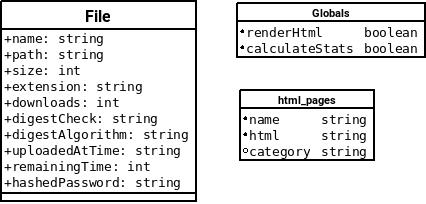
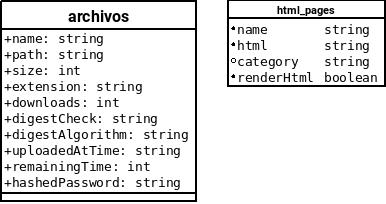
+ html_pages table

Changed region(s): [[0.0, 0.0, 1.0, 1.0], [0.1554, 0.0294, 0.342, 0.1176]]

diff --git a/botadero/database/models.py b/botadero/database/models.py
@@ -34,7 +34,7 @@ class Archivo(db.Model, CRUDMixin):
 
     def __init__(self, **kwargs):
         super(Archivo, self).__init__(**kwargs)
-        ''' Inicializador de columna Parametros, puede recibir los argumentos:
+        ''' Inicializador de la tabla archivos, puede recibir los argumentos:
         - name: string
         - path: string
         - size: int
@@ -85,3 +85,43 @@ class Archivo(db.Model, CRUDMixin):
         
     def __repr__(self):
         return 'File %r: %r [%r] (%r B), downloads: %d - uploaded: %r remaining time: %d' % (self.name, self.path, self.digestCheck, self.size, self.downloads, self.uploadedAtTime, self.remainingTime)
+
+class HtmlPage(db.Model, CRUDMixin):
+    __tablename__ = 'html_pages'
+    id = db.Column(db.Integer, primary_key=True)
+    name = db.Column(db.String(1000), nullable=False)
+    html = db.Column(db.String(100000), nullable=False)
+    category = db.Column(db.String(1000), nullable=False, default='')
+    renderHtml = db.Column(db.Boolean, default=False, nullable=False)
+
+    def __init__(self, **kwargs):
+        super(HtmlPage, self).__init__(**kwargs)
+        ''' Inicializador de la tabla html_pages, puede recibir argumentos:
+        - name: string
+        - html: string
+        - category: string
+        - renderHtml: boolean
+        '''
+        self.name = kwargs.get('name','undefined')
+        self.html = kwargs.get('html', '<html>No content yet</html>')
+        self.category = kwargs.get('category', 'Misc')
+
+    def save(self, **kwargs):
+        self.name = kwargs.get('name', self.name)
+        self.html = kwargs.get('html', self.html)
+        self.category = kwargs.get('category', self.category)
+        self.renderHtml = kwargs.get('renderHtml', self.renderHtml)
+
+        db.session.add(self)
+        db.session.commit()
+        return self
+
+    def delete(self):
+        db.session.delete(self)
+        return db.session.commit()
+
+    def __repr__(self):
+        return 'html_page %r: \ncategory:\nhtml:\n%r\nrenderHtml:%r' % (self.name, self.category, self.html, self.renderHtml)
+
+    
+        

diff --git a/botadero/controller.py b/botadero/controller.py
@@ -8,7 +8,7 @@ import os
 
 from .shared import globalParams, gr
 from . import utils as u
-from .database.models import Archivo
+from .database.models import Archivo, HtmlPage
 
 def descargaPermitida(cat, nombreArchivo):
     if '..' in nombreArchivo or nombreArchivo.startswith(os.path.sep):
@@ -27,7 +27,7 @@ def descargarArchivo(cat, nombreArchivo):
 
 # definir una funcion para comprobar la lista de archivos y su tiempo de 
 # borrado
-def comprobarTiempoBorradoListaArchivos(categoria, hdd=False):
+def comprobarTiempoBorradoListaArchivos(categoria, hdxd=False):
     ''' Verifica si es necesario borrar archivos en los archivos dados en
     la carpeta (categoria) guradada en el almacen
     :param categoria: La carpeta (categoria) dentro el almacen donde se hace

diff --git a/tests/test_database.py b/tests/test_database.py
@@ -40,3 +40,11 @@ def test_modificarArchivo(db):
     name = uuid.uuid4().hex
     b.save(name=name)
     assert Archivo.query.filter_by(name=name).first() is not None
+
+# tabla html_pages
+def test_crearHtmlPage(db):
+    from botadero.database.models import HtmlPage
+    name = uuid.uuid4().hex
+    b = HtmlPage.create(name=name, category='Misc')
+    assert HtmlPage.query.filter_by(name=name).first() is not None
+

diff --git a/botadero/database/__init__.py b/botadero/database/__init__.py
@@ -29,7 +29,7 @@ def setup_db(app, db=None, destroy=True, db_path='sqlite:///db.sqlite3', testing
     g.db = db
     # importando modelos definidos en modulos externos
     print ('Importando modelos ... ')
-    from .models import Archivo
+    from .models import Archivo, HtmlPage
     
     db.create_all()
     db.session.commit()
